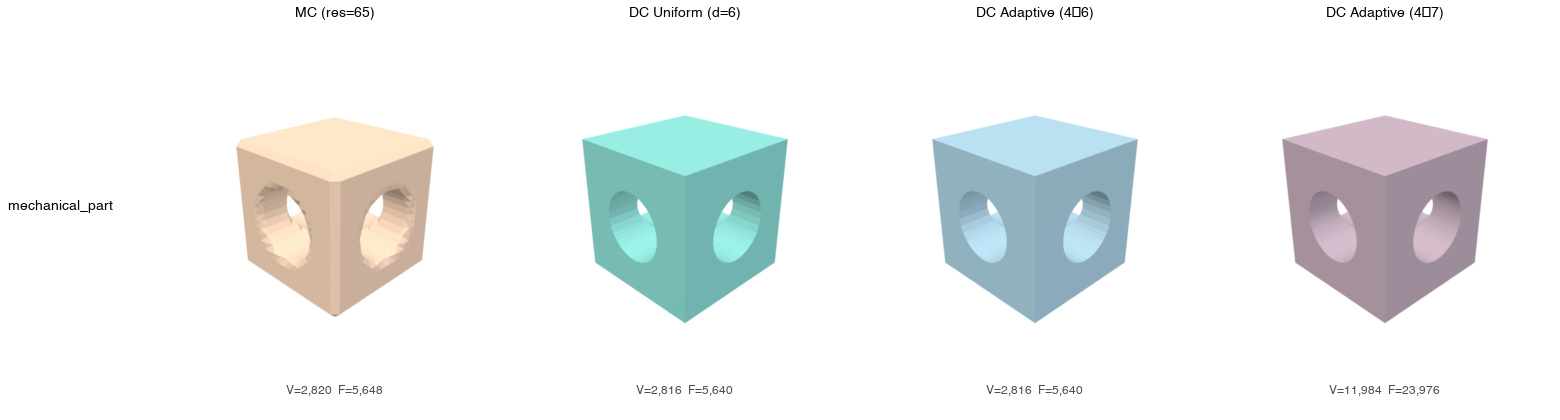
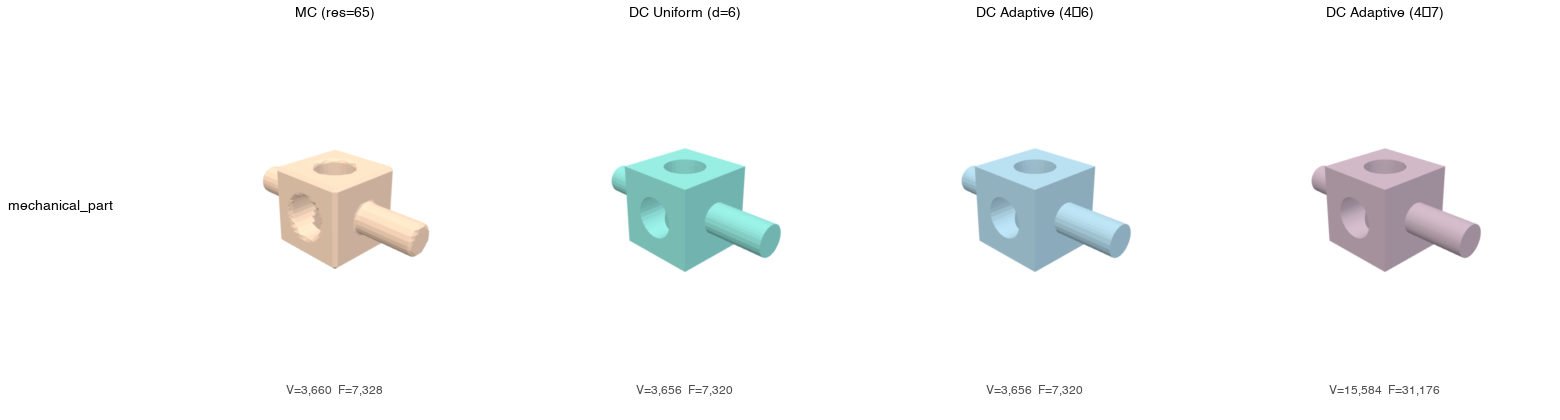
Restore through-rod on mechanical_part with two perpendicular holes
Box with extending rod along X, holes punched through Y and Z axes.

diff --git a/benchmarks/run_benchmark.py b/benchmarks/run_benchmark.py
@@ -136,14 +136,17 @@ def sdf_cylinder(pos, radius=0.5, half_height=1.0):
 
 
 def sdf_mechanical_part(pos):
-    """Box with two large through-holes in perpendicular directions."""
+    """Box ∪ through-rod − 2 perpendicular cylindrical holes."""
     d_box, _ = sdf_box(pos, np.array([0.4, 0.4, 0.4]))
-    # Through-hole along X-axis
-    d_hole_x = _sdf_capped_cylinder(pos, radius=0.2, half_height=1.0, axis=0)
+    # Through-rod extending beyond box along X-axis
+    d_rod = _sdf_capped_cylinder(pos, radius=0.15, half_height=1.0, axis=0)
+    d_union = np.minimum(d_box, d_rod)
     # Through-hole along Y-axis
     d_hole_y = _sdf_capped_cylinder(pos, radius=0.2, half_height=1.0, axis=1)
-    d_result = np.maximum(d_box, -d_hole_x)
-    d_result = np.maximum(d_result, -d_hole_y)
+    # Through-hole along Z-axis
+    d_hole_z = _sdf_capped_cylinder(pos, radius=0.2, half_height=1.0, axis=2)
+    d_result = np.maximum(d_union, -d_hole_y)
+    d_result = np.maximum(d_result, -d_hole_z)
     return d_result, None
 
 
